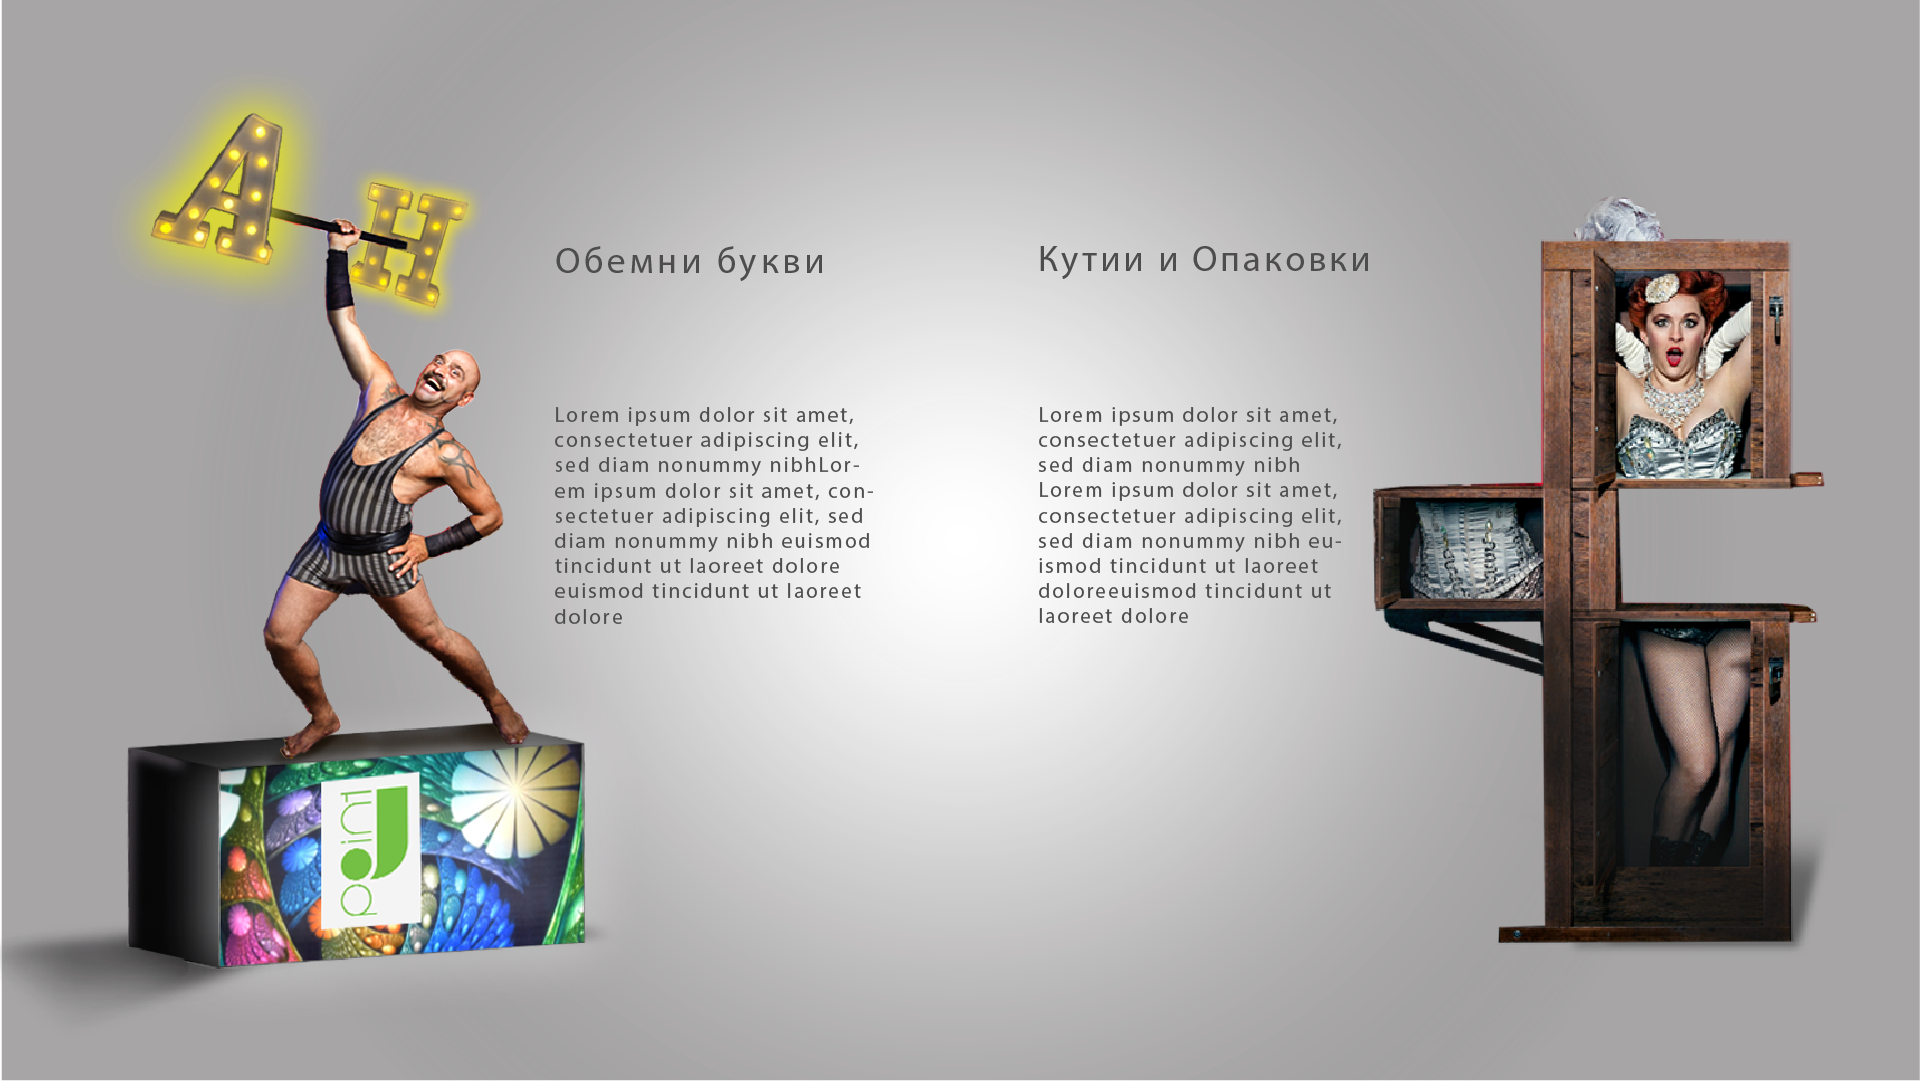
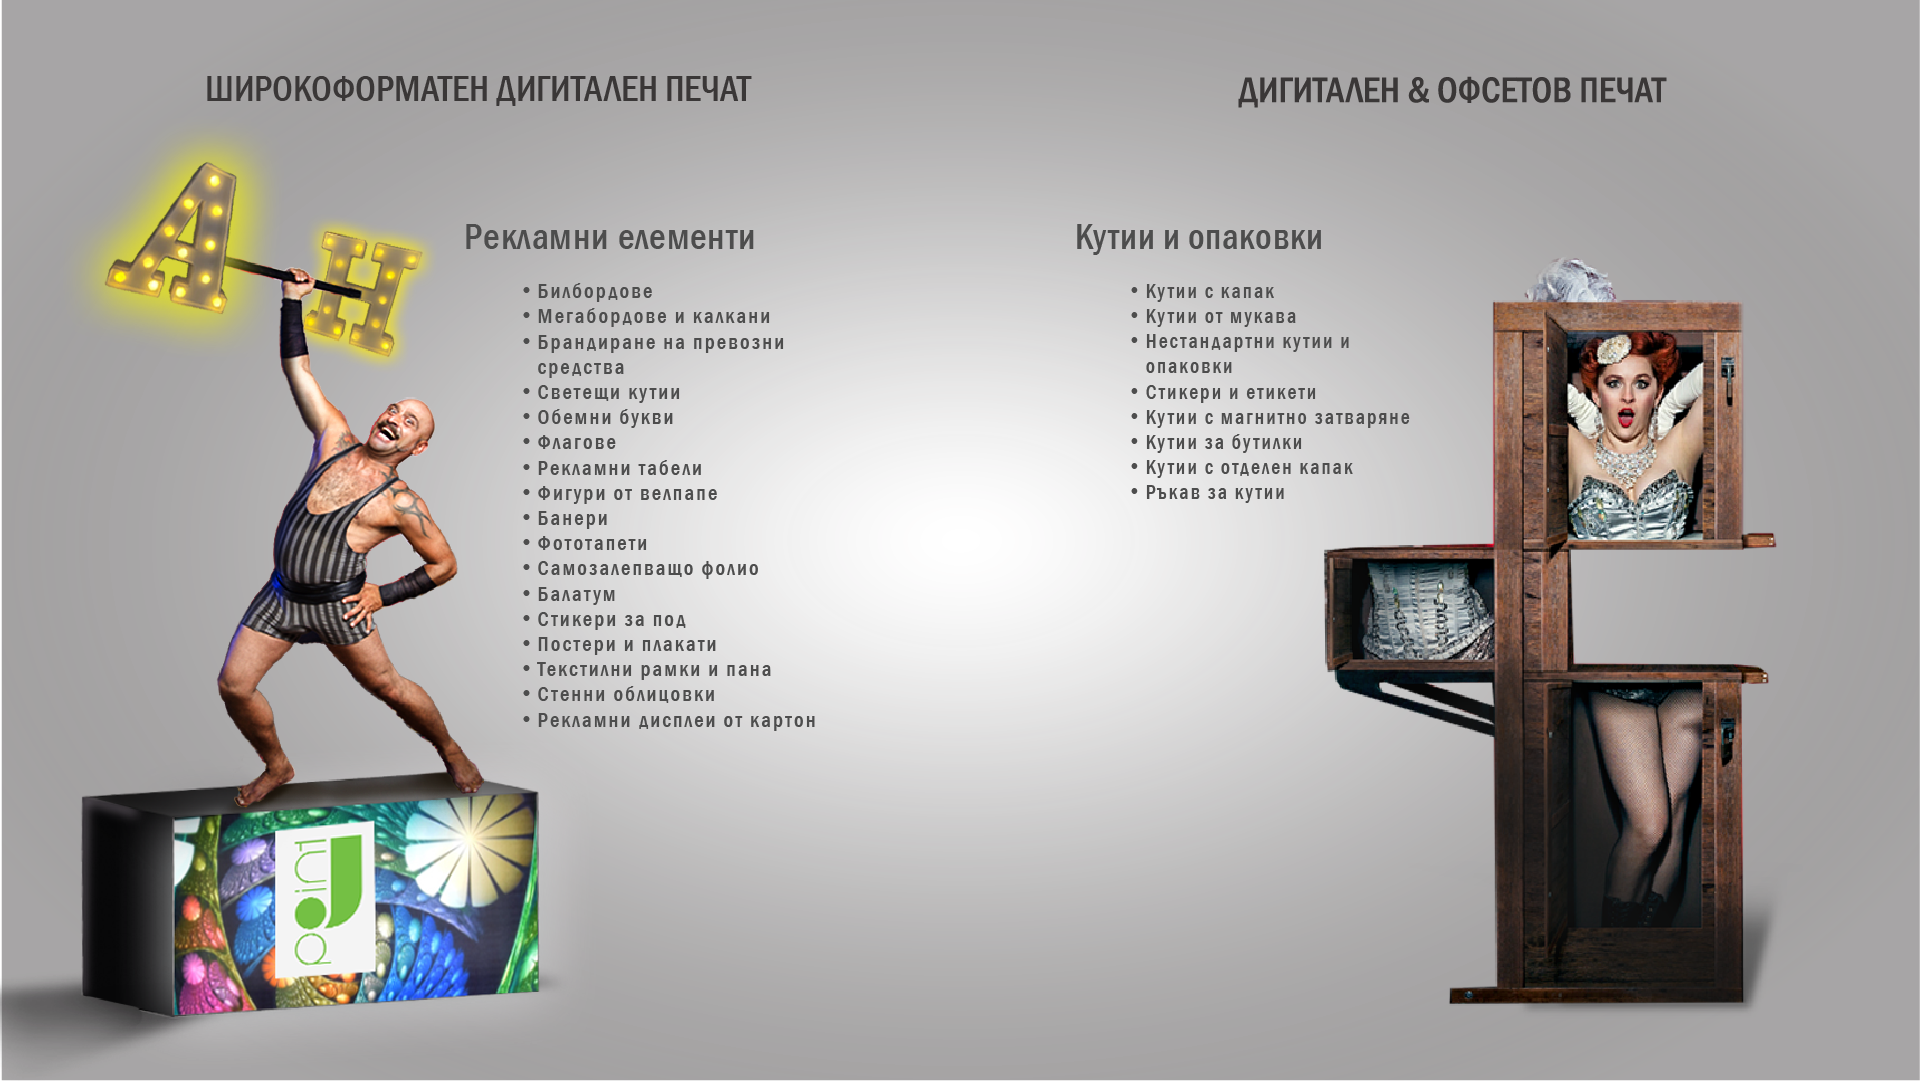
slogan and slider update
Added slogan over infinity slider. Changed image in page 2

Changed region(s): [[0.0, 0.0611, 0.4373, 0.9769], [0.531, 0.1832, 0.9682, 0.9463], [0.6247, 0.0611, 0.8745, 0.0916]]

diff --git a/index.html b/index.html
@@ -14,7 +14,9 @@
     <div id="logo">
         <img src="LOGO.png" width="7%">
     </div>
+    <p id="slogan">20 ГОДИНИ ГЕРОИ НА ПЕЧАТНАТА СЦЕНА</p>
     <div id="slide_1">
+
         <div class="container">
             <div class="wrap-slider" id="js-wrapSlider">
                 <ul class="js-slider">

diff --git a/index.css b/index.css
@@ -54,6 +54,16 @@ body {
   z-index: 22222;
 }
 
+#slogan {
+  position: absolute;
+  width: 100%;
+  text-align: center;
+  top: 6%;
+  color: white;
+  font-size: 4vw;
+  z-index: 22222;
+}
+
 .info {
   position: absolute;
   z-index: 2;
